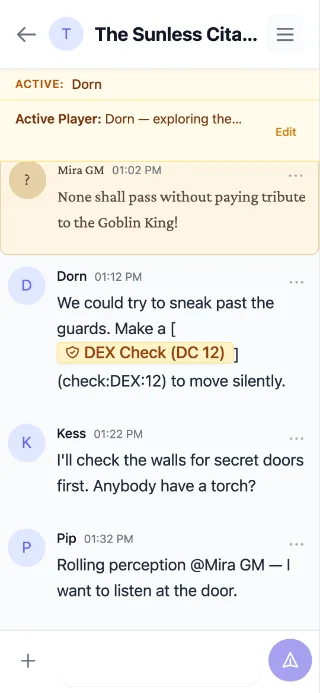
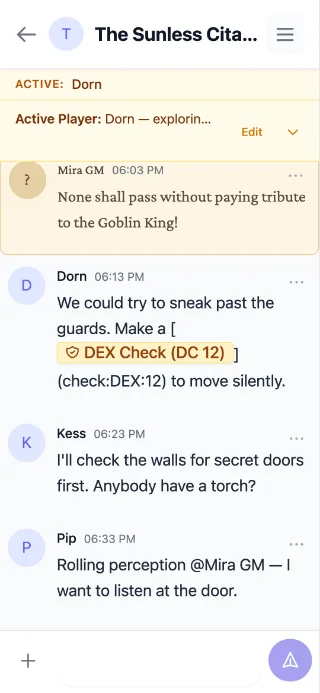
fix(#577): keep the status bar chevron after a reload (#580)
* fix(#577): keep the status bar chevron after a reload

The chevron was measured once in a useLayoutEffect, which ran while the
lazy Markdown chunk was still resolving (the Suspense skeleton), so
overflows stayed false after a cold load and the arrow only came back when
an edit+save changed the status text. The measurement also trusted
scrollHeight/clientHeight on a -webkit-box line-clamp, which WebKit can
report as equal even while text is clipped.

Add useElementOverflow: re-measures on box resize and DOM mutation, and
reads the natural height by briefly dropping the clamp inline (restored
before paint). Wire it into ChannelStatusBar, add hook + component
regression tests, and regenerate the help screenshot (chevron now shown).

* test(#577): assert MutationObserver cleanup on unmount

Address Copilot review: also spy on MutationObserver.disconnect in the
unmount test, and clarify the inline un-clamp note.

diff --git a/src/hooks/useElementOverflow.test.tsx b/src/hooks/useElementOverflow.test.tsx
@@ -1,0 +1,93 @@
+import { render, screen, waitFor, act } from '@testing-library/react'
+import { describe, it, expect, vi, afterEach } from 'vitest'
+import { useElementOverflow } from './useElementOverflow'
+
+// jsdom reports 0 for both; override so a test can simulate the clamped box
+// (clientHeight) against the full content height (scrollHeight).
+const setHeights = (scrollHeight: number, clientHeight: number) => {
+  Object.defineProperty(HTMLElement.prototype, 'scrollHeight', { configurable: true, get: () => scrollHeight })
+  Object.defineProperty(HTMLElement.prototype, 'clientHeight', { configurable: true, get: () => clientHeight })
+}
+
+type ResizeObserverMock = { trigger: () => void; disconnect: () => void }
+
+function Harness() {
+  const { ref, overflows } = useElementOverflow<HTMLDivElement>()
+  return (
+    <div ref={ref} data-testid="box" className="line-clamp-1">
+      {overflows ? 'overflows' : 'fits'}
+    </div>
+  )
+}
+
+afterEach(() => {
+  vi.restoreAllMocks()
+  setHeights(0, 0)
+})
+
+describe('useElementOverflow', () => {
+  it('reports no overflow for single-line content', () => {
+    setHeights(30, 30)
+    render(<Harness />)
+    expect(screen.getByTestId('box')).toHaveTextContent('fits')
+  })
+
+  it('reports overflow when the content is taller than the clamp', () => {
+    setHeights(100, 30)
+    render(<Harness />)
+    expect(screen.getByTestId('box')).toHaveTextContent('overflows')
+  })
+
+  it('re-measures when the box resizes', () => {
+    setHeights(30, 30)
+    render(<Harness />)
+    expect(screen.getByTestId('box')).toHaveTextContent('fits')
+
+    const observer = (globalThis as unknown as { __resizeObservers: ResizeObserverMock[] }).__resizeObservers.at(-1)!
+    setHeights(100, 30)
+    act(() => observer.trigger())
+    expect(screen.getByTestId('box')).toHaveTextContent('overflows')
+  })
+
+  it('re-measures when the content is replaced', async () => {
+    setHeights(30, 30)
+    render(<Harness />)
+    const box = screen.getByTestId('box')
+    expect(box).toHaveTextContent('fits')
+
+    setHeights(100, 30)
+    act(() => {
+      box.appendChild(document.createElement('span'))
+    })
+    await waitFor(() => expect(box).toHaveTextContent('overflows'))
+  })
+
+  it('restores the clamp after measuring', () => {
+    setHeights(100, 30)
+    render(<Harness />)
+    const box = screen.getByTestId('box')
+    expect(box.style.getPropertyValue('-webkit-line-clamp')).toBe('')
+    expect(box).toHaveTextContent('overflows')
+  })
+
+  it('disconnects both observers on unmount', () => {
+    setHeights(30, 30)
+    const mutationDisconnect = vi.spyOn(MutationObserver.prototype, 'disconnect')
+    const { unmount } = render(<Harness />)
+    const observer = (globalThis as unknown as { __resizeObservers: ResizeObserverMock[] }).__resizeObservers.at(-1)!
+    const resizeDisconnect = vi.spyOn(observer, 'disconnect')
+    unmount()
+    expect(resizeDisconnect).toHaveBeenCalledTimes(1)
+    expect(mutationDisconnect).toHaveBeenCalledTimes(1)
+  })
+
+  it('does nothing until a node is attached', () => {
+    setHeights(100, 30)
+    function Unattached() {
+      const { overflows } = useElementOverflow<HTMLDivElement>()
+      return <span>{String(overflows)}</span>
+    }
+    render(<Unattached />)
+    expect(screen.getByText('false')).toBeInTheDocument()
+  })
+})

diff --git a/src/hooks/useElementOverflow.ts b/src/hooks/useElementOverflow.ts
@@ -1,0 +1,60 @@
+import { useCallback, useEffect, useLayoutEffect, useState } from 'react'
+import type { RefCallback } from 'react'
+
+// Reports whether a line-clamped element's content is taller than the clamp.
+//
+// The obvious `el.scrollHeight > el.clientHeight` check is not enough here:
+//  - it runs once, and misses content that arrives later (the shared Markdown
+//    component is lazy-loaded, so the first paint is a Suspense skeleton —
+//    issue #577), and
+//  - WebKit can report a `-webkit-box` clamp's scrollHeight equal to its
+//    clientHeight, so the comparison itself is unreliable there.
+//
+// So this hook (a) re-measures whenever the box resizes or its content is
+// replaced, and (b) reads the natural height by briefly dropping the clamp
+// inline — restored in the same task, before the browser paints, so nothing
+// flickers. Browsers and the test suite that report honest heights are
+// unaffected: the measurement result is the same.
+export function useElementOverflow<T extends HTMLElement>(): {
+  ref: RefCallback<T>
+  overflows: boolean
+} {
+  const [node, setNode] = useState<T | null>(null)
+  const [overflows, setOverflows] = useState(false)
+
+  const ref = useCallback<RefCallback<T>>((next) => setNode(next), [])
+
+  const measure = useCallback((el: T | null) => {
+    if (!el) return
+    const clamped = el.clientHeight
+    // ponytail: read the full height by dropping the clamp inline. The clamp
+    // always comes from the Tailwind class on this element, never an inline
+    // style, so removing the property is a clean restore. Switch to the
+    // clone-based measurement if an inline line-clamp is ever introduced.
+    el.style.setProperty('-webkit-line-clamp', 'unset')
+    const full = el.scrollHeight
+    el.style.removeProperty('-webkit-line-clamp')
+    setOverflows(full > clamped + 1)
+  }, [])
+
+  // Measure before paint so the initial render never flashes the wrong state.
+  useLayoutEffect(() => {
+    measure(node)
+  }, [node, measure])
+
+  useEffect(() => {
+    if (!node) return
+    // Content replaced (lazy Markdown resolving, status text changing) and box
+    // resized (window, sidebar, expand/collapse) both need a fresh measure.
+    const observer = new ResizeObserver(() => measure(node))
+    observer.observe(node)
+    const mutations = new MutationObserver(() => measure(node))
+    mutations.observe(node, { childList: true, subtree: true, characterData: true })
+    return () => {
+      observer.disconnect()
+      mutations.disconnect()
+    }
+  }, [node, measure])
+
+  return { ref, overflows }
+}

diff --git a/src/features/channels/ChannelStatusBar.test.tsx b/src/features/channels/ChannelStatusBar.test.tsx
@@ -1,4 +1,4 @@
-import { render, screen, fireEvent, waitFor } from '@testing-library/react'
+import { render, screen, fireEvent, waitFor, act } from '@testing-library/react'
 import { describe, it, expect, vi, beforeEach, afterEach } from 'vitest'
 import { ChannelStatusBar } from './ChannelStatusBar'
 import { supabase } from '../../lib/supabase'
@@ -96,6 +96,31 @@ describe('ChannelStatusBar', () => {
     // The 10px hit-expansion needs room next to the Edit button (CodeRabbit):
     // the row gap is 12px (space-x-3) so the pseudo cannot overlap it.
     expect(chevron.parentElement?.className).toContain('space-x-3')
+  })
+
+  // #577: the status text arrives while the lazy Markdown chunk is still
+  // resolving, so the first measure sees a single-line skeleton and the
+  // chevron is dropped for the rest of the mount. A later re-measure must
+  // bring it back without a statusText change.
+  it('re-shows the chevron when the content starts overflowing after mount', () => {
+    const { container } = render(<ChannelStatusBar channelId="c1" statusText="A very long status line that wraps past a single clamped line." activePlayers={[]} isGM={false} onUpdate={vi.fn()} />)
+    expect(container.querySelector('button[aria-label="Expand Status"]')).toBeNull()
+
+    setOverflow(100, 30)
+    const observer = (globalThis as unknown as { __resizeObservers: { trigger: () => void }[] }).__resizeObservers.at(-1)!
+    act(() => observer.trigger())
+    expect(container.querySelector('button[aria-label="Expand Status"]')).toBeInTheDocument()
+  })
+
+  it('hides the chevron when the box stops overflowing after a resize', () => {
+    setOverflow(100, 30)
+    const { container } = render(<ChannelStatusBar channelId="c1" statusText="A very long status line that wraps past a single clamped line." activePlayers={[]} isGM={false} onUpdate={vi.fn()} />)
+    expect(container.querySelector('button[aria-label="Expand Status"]')).toBeInTheDocument()
+
+    setOverflow(30, 30)
+    const observer = (globalThis as unknown as { __resizeObservers: { trigger: () => void }[] }).__resizeObservers.at(-1)!
+    act(() => observer.trigger())
+    expect(container.querySelector('button[aria-label="Expand Status"]')).toBeNull()
   })
 
   it('applies dark-mode prose variants to the status markdown', () => {

diff --git a/src/features/channels/ChannelStatusBar.tsx b/src/features/channels/ChannelStatusBar.tsx
@@ -1,7 +1,8 @@
-import { useState, useRef, useLayoutEffect } from 'react'
+import { useState } from 'react'
 import { Markdown } from '../../components/Markdown'
 import { proseAmber } from '../chat/composerChip'
 import { useChannelStatus } from './useChannelStatus'
+import { useElementOverflow } from '../../hooks/useElementOverflow'
 import { MAX_STATUS_LENGTH } from '../../constants'
 
 interface ActivePlayer {
@@ -25,16 +26,10 @@ export function ChannelStatusBar({ channelId, statusText, activePlayers, isGM, o
   const [isSubmitting, setIsSubmitting] = useState(false)
   const [error, setError] = useState<string | null>(null)
   // Chevron only when the clamped (collapsed) status text actually overflows
-  // one line; single-line text has nothing to expand.
-  const statusRef = useRef<HTMLDivElement>(null)
-  const [overflows, setOverflows] = useState(false)
+  // one line; single-line text has nothing to expand. The hook re-measures as
+  // the lazy markdown resolves and the box resizes (#577).
+  const { ref: statusRef, overflows } = useElementOverflow<HTMLDivElement>()
   const { updateStatus } = useChannelStatus()
-
-  useLayoutEffect(() => {
-    const el = statusRef.current
-    if (!el) return
-    setOverflows(el.scrollHeight > el.clientHeight + 1)
-  }, [statusText, isExpanded])
 
   const handleSave = async () => {
     setIsSubmitting(true)

diff --git a/docs/CHANGELOG.md b/docs/CHANGELOG.md
@@ -6,6 +6,7 @@ All notable changes to this project are documented in this file.
 
 ### Fixed
 
+- **The status bar's expand arrow no longer goes missing** — after reloading the app, the arrow that reveals a long channel status is back as soon as the text needs it, instead of only appearing after you edit and save the status.
 - **Updating the app works on macOS Safari** — tapping **Reload** in the "New version available" banner now refreshes the app instead of sitting on "Updating…" and leaving you to refresh by hand. The "Reload" button on the "Something went wrong" screen got the same fix.
 - **Player lists show the GM at the top, then players A–Z** — the channel sidebar roster and the admin channel view now list the GM first and everyone else by character name; the Active Player picker (which excludes the GM) lists its players by character name too, so the same people appear in the same order everywhere.
 
